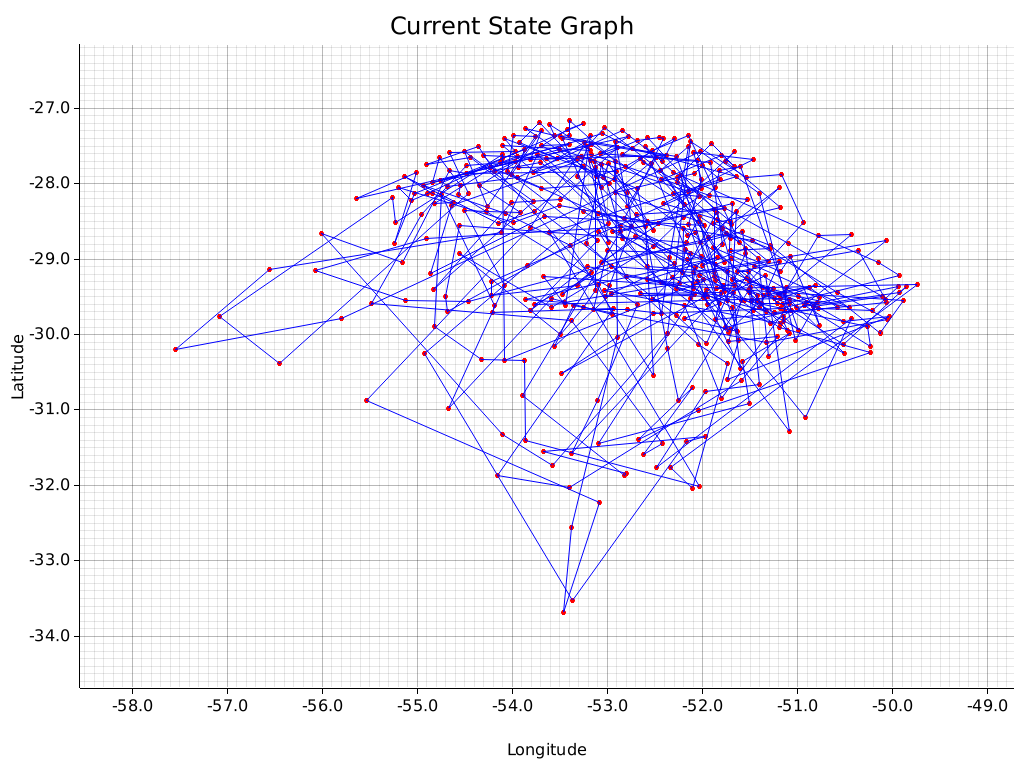
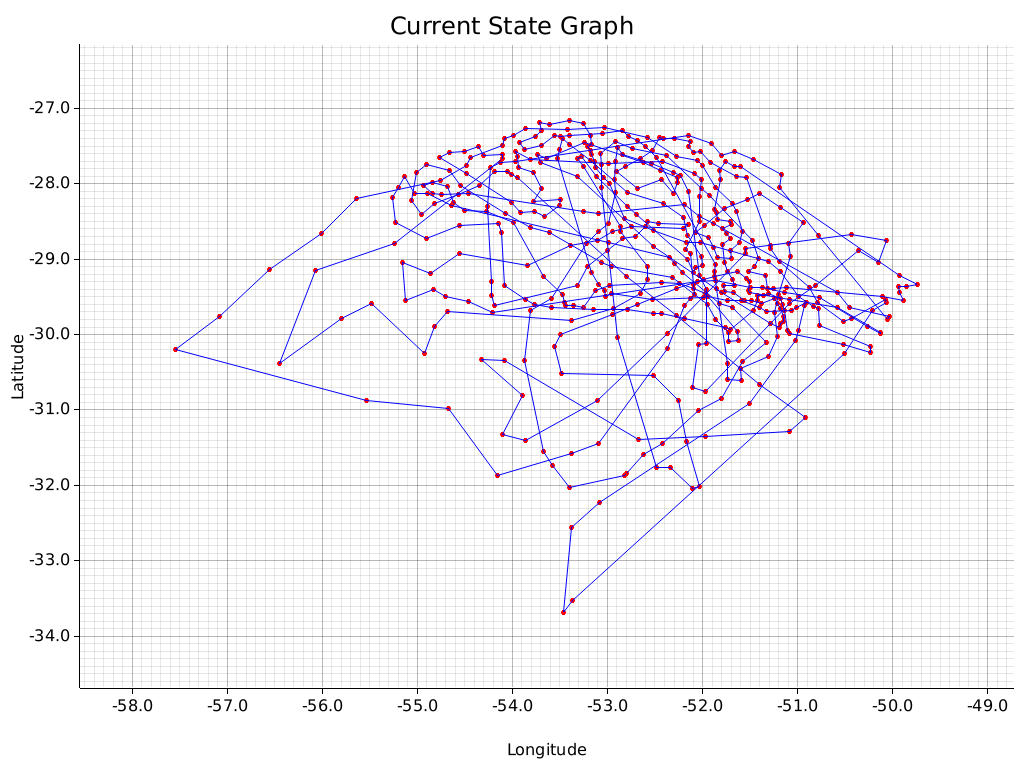
Improving genetic algorithm

diff --git a/src/algorithm/genetic.rs b/src/algorithm/genetic.rs
@@ -23,7 +23,26 @@ impl Chromossome {
         &self.distance
     }
 
-    fn swap_mutation(mut self, distance_matrix: &[f64], swaps: usize) -> Self {
+    fn update_distance(mut self, path: Vec<u16>, distance_matrix: &[f64]) -> Self {
+        let updated_distance = Genetic::calculate_path_distance(&path, distance_matrix);
+        if &updated_distance < &self.distance {
+            self.distance = updated_distance;
+            self.path = path;
+        }
+        self
+    }
+
+    fn mutate(self, distance_matrix: &[f64], swaps: usize, distance: usize) -> Self {
+        let mut rng = rng();
+        let swap_mut = rng.random_bool(0.8);
+        if swap_mut {
+            self.swap_mutation(distance_matrix, swaps)
+        } else {
+            self.displacement_mutation(distance_matrix, distance)
+        }
+    }
+
+    fn swap_mutation(self, distance_matrix: &[f64], swaps: usize) -> Self {
         let mut rng = rng();
         let n = &self.path.len();
         let mut path = self.path.clone();
@@ -33,12 +52,23 @@ impl Chromossome {
             
             path.swap(first, second);
         }
-        let updated_distance = Genetic::calculate_path_distance(&path, distance_matrix);
-        if &updated_distance < &self.distance {
-            self.distance = updated_distance;
-            self.path = path;
-        }
-        self
+        
+        self.update_distance(path, distance_matrix)
+    }
+
+    fn displacement_mutation(self, distance_matrix: &[f64], distance: usize) -> Self {
+        let mut rng = rng();
+        let n = &self.path.len();
+        let mut path = self.path.clone();
+        let shift_size = (n / 20).min(n - 1);
+
+        let shift_position = rng.random_range(0..n-shift_size-1);
+        let displaced_part: Vec<u16> = path.drain(shift_position..shift_position+shift_size).collect();
+        
+        let new_position = (shift_position + distance) % (n-shift_size);
+        path.splice(new_position..new_position, displaced_part);
+
+        self.update_distance(path, distance_matrix)
     }
 }
 
@@ -46,7 +76,8 @@ pub struct Genetic {
     distance_matrix: Vec<f64>,
     cities: Vec<City>,
     crossover: String,
-    mutations: Vec<String>
+    mutations: Vec<String>,
+    generations: u32
 }
 
 impl Genetic {
@@ -55,7 +86,8 @@ impl Genetic {
             distance_matrix: vec![], 
             cities: cities.clone(),
             crossover: String::new(),
-            mutations: vec![]
+            mutations: vec![],
+            generations: 0
         }
     }
 
@@ -114,29 +146,33 @@ impl Genetic {
         Chromossome::new(path, distance)
     }
     
-    fn execute_for_population(&mut self, mut sorted_population: Vec<Chromossome>, gen_max_init: i32, population_size: usize, initial_swap: usize) -> Vec<Chromossome> {
+    fn execute_for_population(&mut self, mut sorted_population: Vec<Chromossome>, population_size: usize, initial_swap: usize) -> Vec<Chromossome> {
         let mut previous_distance = sorted_population[0].get_distance().clone();
-        let mut gen_max_iter = gen_max_init;
         let mut gen_not_changed_best = 0;
         let mut gen_not_changed_best_limit = self.cities.len();
+        let gen_not_changed_best_breakpoint = 200000; 
+        let mut displaycement_dist = self.cities.len()/5;
         let mut swap = initial_swap;
 
-        while gen_max_iter > 0 {
-            // let (parent_1, parent_2) = (sorted_population[0].clone(), sorted_population[1].clone());
+        while gen_not_changed_best < gen_not_changed_best_breakpoint {
             let (parent_1, parent_2) = self.select_parents(&sorted_population);
             let children = self.order_crossover(&parent_1, &parent_2);
             sorted_population[population_size-1] = children.clone();
             for i in 2..population_size-2 {
-                sorted_population[i] = children.clone().swap_mutation(&self.distance_matrix, swap);
-                if swap > 1 {
-                    swap -= 1;
-                }
+                sorted_population[i] = children.clone().mutate(&self.distance_matrix, swap, displaycement_dist);
             }
             sorted_population = self.sort_population_by_distance(&sorted_population);
             let best_distance = sorted_population[0].get_distance();
             if previous_distance > *best_distance {
                 previous_distance = best_distance.clone();
-                println!("{} {}", &best_distance, gen_max_init - gen_max_iter);
+                println!("{} {} {} {}", &best_distance, self.generations, swap, displaycement_dist);
+                if swap > 1 {
+                    swap -= 1;
+                }
+                if displaycement_dist > 1 {
+                    displaycement_dist -= 1;
+                }
+                gen_not_changed_best = 0;
             } else {
                 gen_not_changed_best += 1;
             }
@@ -144,31 +180,41 @@ impl Genetic {
                 gen_not_changed_best_limit *= 2;
                 if swap < self.cities.len() {
                     swap += 1;
+                    displaycement_dist += 1;
                 } else {
-                    swap = 1
+                    swap = 1;
+                    displaycement_dist = 1;
                 }
             }
-            gen_max_iter -= 1;
+            self.generations += 1;
         }
 
         sorted_population
     }
 
-    fn execute_for_one_population_army(&self, first_gen: &Chromossome, gen_max_init: i32,initial_swap: usize) -> Chromossome {
+    fn execute_for_one_population_army(&mut self, first_gen: &Chromossome, initial_swap: usize) -> Chromossome {
         let mut previous_distance = first_gen.get_distance().clone();
-        let mut gen_max_iter = gen_max_init;
         let mut gen_not_changed_best = 0;
-        let mut gen_not_changed_best_limit = self.cities.len();
+        let mut gen_not_changed_best_limit = self.cities.len(); // Used to increase randomness
+        let gen_not_changed_best_breakpoint = 500000; // Used to stop the algorithm
         let mut swap = initial_swap;
+        let mut displaycement_dist = self.cities.len()/5;
         let mut current_gen = first_gen.clone();
 
-        while gen_max_iter > 0 {
-            let new_gen = current_gen.clone().swap_mutation(&self.distance_matrix, swap);
+        while gen_not_changed_best < gen_not_changed_best_breakpoint {
+            let new_gen = current_gen.clone().mutate(&self.distance_matrix, swap, displaycement_dist);
             let new_distance = new_gen.get_distance();
             if previous_distance > *new_distance {
                 previous_distance = new_distance.clone();
                 current_gen = new_gen.clone();
-                println!("{} {}", &new_distance, gen_max_init - gen_max_iter);
+                println!("{} {} {} {}", &new_distance, self.generations, swap, displaycement_dist);
+                if swap > 1 {
+                    swap -= 1;
+                }
+                if displaycement_dist > 1 {
+                    displaycement_dist -= 1;
+                }
+                gen_not_changed_best = 0;
             } else {
                 gen_not_changed_best += 1;
             }
@@ -176,24 +222,31 @@ impl Genetic {
                 gen_not_changed_best_limit *= 2;
                 if swap < self.cities.len() {
                     swap += 1;
+                    displaycement_dist += 1;
                 } else {
-                    swap = 1
+                    swap = 1;
+                    displaycement_dist = 1;
                 }
             }
-            gen_max_iter -= 1;
+            self.generations += 1;
         }
         current_gen
     }
 }
 
-// TODO: Critério de parada
 // TODO: Mais mutações (greedy)
 // TODO: Testar outros crossovers
 impl Algorithm for Genetic {
     fn execute(&mut self) -> ExecuteResponse {
         println!("Execute Genetic");
         let start_time = Instant::now();
-        let population_size: usize = 15;
+        let len_cities = self.cities.len();
+        let population_size;
+        if len_cities > 400 {
+            population_size = 1;
+        } else {
+            population_size = 5;
+        }
         self.distance_matrix = Self::create_distance_matrix(&self.cities);
         
         let population = self.create_random_population(population_size);
@@ -202,19 +255,18 @@ impl Algorithm for Genetic {
         let first_gen_best_path = sorted_population[0].get_path().clone();
 
         let swap = 1;
-        let gen_max_init = 100000;
     
         if population_size == 1 {
-            sorted_population[0] = self.execute_for_one_population_army(&sorted_population[0], gen_max_init, swap);
+            sorted_population[0] = self.execute_for_one_population_army(&sorted_population[0], swap);
         } else {
-            sorted_population = self.execute_for_population(sorted_population, gen_max_init, population_size, swap);
+            sorted_population = self.execute_for_population(sorted_population, population_size, swap);
         }
 
-        let metadata = format!("Population Size: {}\nGenerations: {}\nCrossover: {}\nMutations: {}", 
+        let metadata = format!("Population Size: {}\nGenerations: {}\nCrossover: {}\nMutations: {:?}", 
             population_size,
-            gen_max_init,
+            self.generations,
             self.crossover,
-            "swap_mutation"
+            ["swap_mutation", "displacement_mutation"]
         );
 
         ExecuteResponse::new(

diff --git a/src/main.rs b/src/main.rs
@@ -133,13 +133,13 @@ fn main() {
     if plot {
         let folder = format!("src/assets/{}/{}", algorithm, args.uf.as_str().to_uppercase());
 
-        let mut best_distance = cities_result.get_distance().clone();
+        let mut best_distance_in_file = cities_result.get_distance().clone();
         let metadata_path = format!("{}/metadata.txt", folder);
         if Path::new(&metadata_path).exists() {
-            best_distance = GraphMetadata::get_distance_from_file(metadata_path);
+            best_distance_in_file = GraphMetadata::get_distance_from_file(metadata_path);
         }
 
-        if best_distance == *cities_result.get_distance() {
+        if best_distance_in_file >= *cities_result.get_distance() {
             let mut initial_path = cities_result.get_initial_path().clone();
             initial_path.push(initial_path[0]);
 
